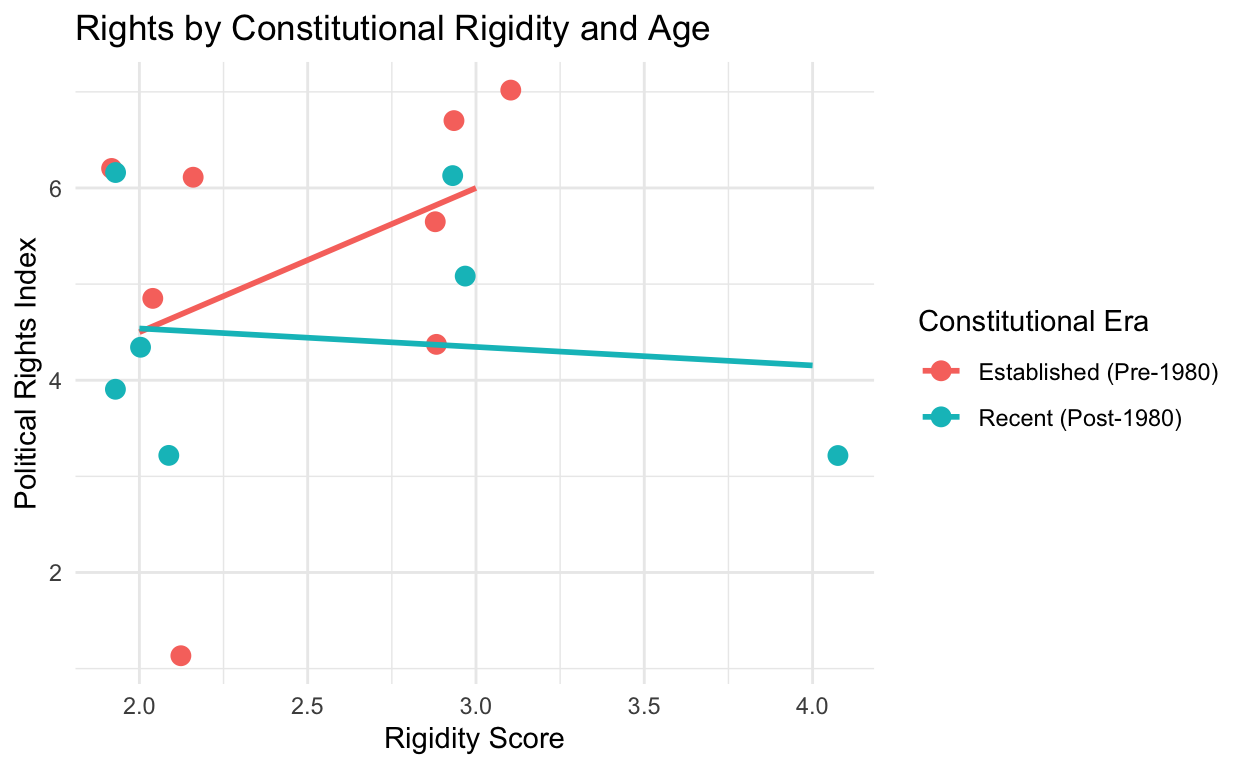
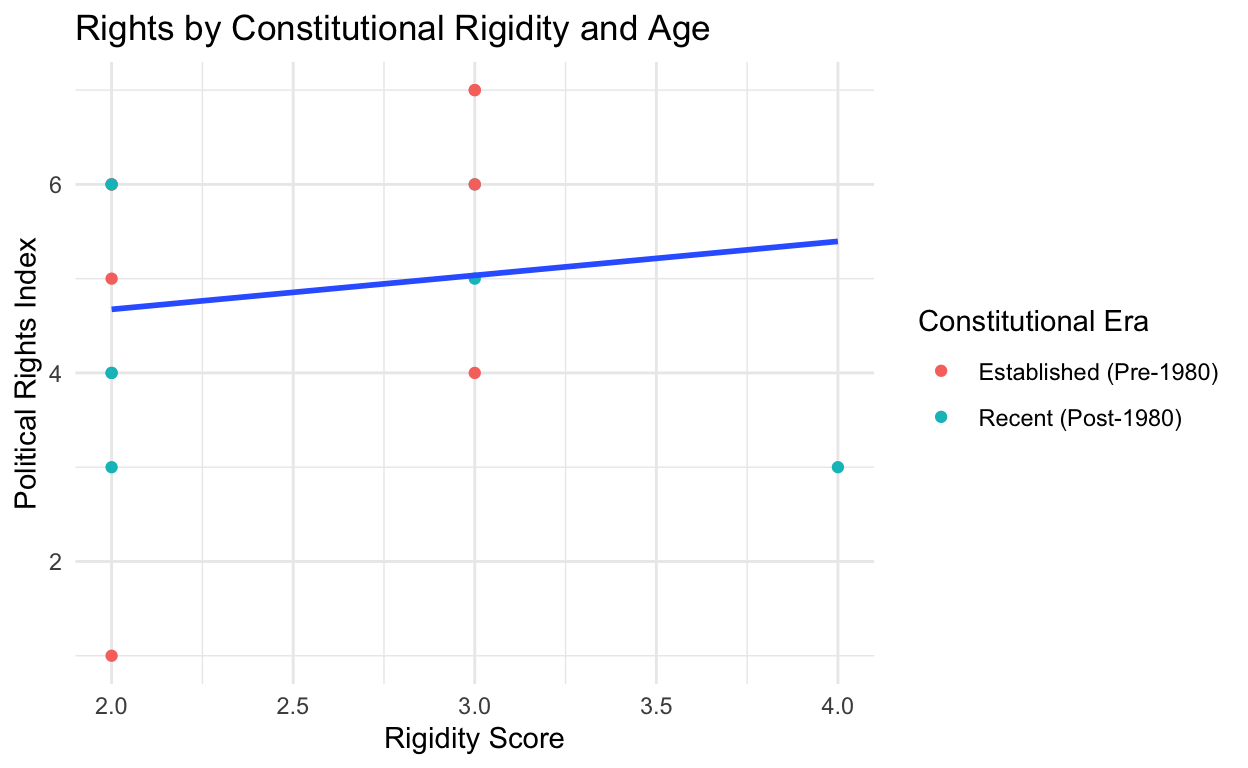
recommitting with new visualization

diff --git a/index.html b/index.html
@@ -1575,7 +1575,7 @@ code span.wa { color: #5e5e5e; font-style: italic; } /* Warning */
 <h2 id="proposal">Proposal</h2>
 <p>This research is from the Tuck School at Dartmouth, a paper entitled, “Judicial Checks and Balances,” published in 2004.</p>
 <p>Research question I want to know: To what extent does the formal design of a constitution determine the quality of political rights?</p>
-<p>Hypothesis: I hypothesize that there is a positive relationship between constitutional rigidity and political rights. Additionally, I hypothesize that modern constitutions would be more successful at protecting political rights with modern language and beliefs in protections for people.</p>
+<p>Hypothesis: I hypothesize that there is a positive relationship between constitutional rigidity and political rights in American countries. Additionally, I hypothesize that modern constitutions would be more successful at protecting political rights with modern language and beliefs in protections for people.</p>
 <p>The explanatory variables are the rigidity of the constitution and the constitution year. For rigidity, this is how it was measured: Measures (on a scale from 1 to 4) how hard it is to change the constitution in a given country. One point each is given if the approval of the majority of the legislature, the chief of state, and a referendum is necessary in order to change the constitution. An additional point is given for each of the following: if a supermajority in the legislature (more than 66 percent of votes) is needed, if both houses of the legislature have to approve, if the legislature has to approve the amendment in two consecutive legislative terms, or if the approval of a majority of the state legislature is required. Source: Maddex (1995).” The other explanatory variable is the year that the constitution was ratified.</p>
 <p>The outcome variable of interest is the political rights index, and this is how it was measured: “Index of political rights in 1996 (on a scale from 1 to 7). Higher ratings indicate countries that come closer to the ideals suggested by the following checklist: (1) there are free and fair elections, (2) those elected rule, (3) there are competitive parties or other competitive political groupings, (4) the opposition has an important role and power, and (5) the entities have self-determination or an extremely high degree of autonomy. Source: Freedom House (1996).”</p>
 <p>Each of the descriptions of the methodology that the researchers used are taken from this website: <a href="https://faculty.tuck.dartmouth.edu/images/uploads/faculty/rafael-laporta/jcb_variable_description.pdf" class="uri">https://faculty.tuck.dartmouth.edu/images/uploads/faculty/rafael-laporta/jcb_variable_description.pdf</a></p>
@@ -1634,7 +1634,7 @@ code span.wa { color: #5e5e5e; font-style: italic; } /* Warning */
 <p>The data suggests that Constitutional Rigidity is not a “magic bullet” for democracy. In “stable regions” (South America), rigidity appears to act as a shield that protects political rights. In unstable or authoritarian regions (Central America/Caribbean), high rigidity may simply be a rule on paper that fails to protect citizens in practice, or even a tool used by those in power to prevent change.</p>
 <p>Key Observation: The most “rigid” country in the set (Haiti) is far less democratic than countries with “easier to change” constitutions like Panama or Argentina. This suggests that the content of the laws and the culture of the country matter more than just how hard the document is to edit.</p>
 <h2 id="assessing-a-relationship-between-the-year-the-constitution-was-written-its-rigidity-and-political-rights">Assessing a relationship between the year the Constitution was written, its rigidity, and political rights</h2>
-<p>Guiding Question: Does the effectiveness of constitutional rigidity in protecting political rights depend on the age of the constitution?</p>
+<p>Guiding Question: Does the effectiveness of constitutional rigidity in protecting political rights depend on the age of the constitution throughout America?</p>
 <div class="layout-chunk" data-layout="l-body">
 <div class="sourceCode">
 <pre class="sourceCode r"><code class="sourceCode r"><span><span class='kw'><a href='https://rdrr.io/r/base/library.html'>library</a></span><span class='op'>(</span><span class='va'><a href='https://yihui.org/knitr/'>knitr</a></span><span class='op'>)</span></span></code></pre>
@@ -1643,7 +1643,17 @@ code span.wa { color: #5e5e5e; font-style: italic; } /* Warning */
 <div class="layout-chunk" data-layout="l-body">
 <div class="sourceCode">
 <pre class="sourceCode r"><code class="sourceCode r"><span><span class='va'>model</span> <span class='op'>&lt;-</span> <span class='fu'><a href='https://rdrr.io/r/stats/lm.html'>lm</a></span><span class='op'>(</span><span class='va'>pright</span> <span class='op'>~</span> <span class='va'>rigid</span> <span class='op'>+</span> <span class='va'>cons_yr</span>, data <span class='op'>=</span> <span class='va'>judicial_data_america</span><span class='op'>)</span></span>
-<span><span class='fu'><a href='https://rdrr.io/r/base/summary.html'>summary</a></span><span class='op'>(</span><span class='va'>model</span><span class='op'>)</span></span></code></pre>
+<span><span class='va'>model</span></span></code></pre>
+</div>
+<pre><code>
+Call:
+lm(formula = pright ~ rigid + cons_yr, data = judicial_data_america)
+
+Coefficients:
+(Intercept)        rigid      cons_yr  
+    31.6198       0.1263      -0.0139  </code></pre>
+<div class="sourceCode">
+<pre class="sourceCode r"><code class="sourceCode r"><span><span class='fu'><a href='https://rdrr.io/r/base/summary.html'>summary</a></span><span class='op'>(</span><span class='va'>model</span><span class='op'>)</span></span></code></pre>
 </div>
 <pre><code>
 Call:
@@ -1673,9 +1683,9 @@ For every 1-point increase in the Rigidity of a constitution, the Political Righ
 <pre class="sourceCode r"><code class="sourceCode r"><span><span class='va'>judicial_data_america</span> <span class='op'>&lt;-</span> <span class='va'>judicial_data_america</span> <span class='op'><a href='https://magrittr.tidyverse.org/reference/pipe.html'>%&gt;%</a></span></span>
 <span>  <span class='fu'><a href='https://dplyr.tidyverse.org/reference/mutate.html'>mutate</a></span><span class='op'>(</span>Age <span class='op'>=</span> <span class='fu'><a href='https://rdrr.io/r/base/ifelse.html'>ifelse</a></span><span class='op'>(</span><span class='va'>cons_yr</span> <span class='op'>&lt;=</span> <span class='fl'>1980</span>, <span class='st'>"Established (Pre-1980)"</span>, <span class='st'>"Recent (Post-1980)"</span><span class='op'>)</span><span class='op'>)</span></span>
 <span></span>
-<span><span class='va'>regression_plot</span> <span class='op'>&lt;-</span> <span class='fu'><a href='https://ggplot2.tidyverse.org/reference/ggplot.html'>ggplot</a></span><span class='op'>(</span><span class='va'>judicial_data_america</span>, <span class='fu'><a href='https://ggplot2.tidyverse.org/reference/aes.html'>aes</a></span><span class='op'>(</span>x <span class='op'>=</span> <span class='va'>rigid</span>, y <span class='op'>=</span> <span class='va'>pright</span>, color <span class='op'>=</span> <span class='va'>Age</span><span class='op'>)</span><span class='op'>)</span> <span class='op'>+</span></span>
-<span>  <span class='fu'><a href='https://ggplot2.tidyverse.org/reference/geom_jitter.html'>geom_jitter</a></span><span class='op'>(</span>width <span class='op'>=</span> <span class='fl'>0.2</span>, size <span class='op'>=</span> <span class='fl'>3</span><span class='op'>)</span> <span class='op'>+</span> <span class='co'># Jitter stops dots from overlapping</span></span>
-<span>  <span class='fu'><a href='https://ggplot2.tidyverse.org/reference/geom_smooth.html'>geom_smooth</a></span><span class='op'>(</span>method <span class='op'>=</span> <span class='st'>"lm"</span>, se <span class='op'>=</span> <span class='cn'>FALSE</span><span class='op'>)</span> <span class='op'>+</span> <span class='co'># Adds two simple trend lines</span></span>
+<span><span class='va'>regression_plot</span> <span class='op'>&lt;-</span> <span class='fu'><a href='https://ggplot2.tidyverse.org/reference/ggplot.html'>ggplot</a></span><span class='op'>(</span><span class='va'>judicial_data_america</span>, <span class='fu'><a href='https://ggplot2.tidyverse.org/reference/aes.html'>aes</a></span><span class='op'>(</span>x <span class='op'>=</span> <span class='va'>rigid</span>, y <span class='op'>=</span> <span class='va'>pright</span><span class='op'>)</span><span class='op'>)</span> <span class='op'>+</span></span>
+<span>  <span class='fu'><a href='https://ggplot2.tidyverse.org/reference/geom_point.html'>geom_point</a></span><span class='op'>(</span><span class='fu'><a href='https://ggplot2.tidyverse.org/reference/aes.html'>aes</a></span><span class='op'>(</span>color <span class='op'>=</span> <span class='va'>Age</span><span class='op'>)</span><span class='op'>)</span> <span class='op'>+</span> </span>
+<span>  <span class='fu'><a href='https://ggplot2.tidyverse.org/reference/geom_smooth.html'>geom_smooth</a></span><span class='op'>(</span>method <span class='op'>=</span> <span class='st'>"lm"</span>, se <span class='op'>=</span> <span class='cn'>FALSE</span><span class='op'>)</span> <span class='op'>+</span> </span>
 <span>  <span class='fu'><a href='https://ggplot2.tidyverse.org/reference/labs.html'>labs</a></span><span class='op'>(</span></span>
 <span>    title <span class='op'>=</span> <span class='st'>"Rights by Constitutional Rigidity and Age"</span>,</span>
 <span>    x <span class='op'>=</span> <span class='st'>"Rigidity Score"</span>,</span>
@@ -1687,13 +1697,11 @@ For every 1-point increase in the Rigidity of a constitution, the Political Righ
 </div>
 <p><img src="index_files/figure-html5/visualization%202-1.png" alt="" width="624" /></p>
 </div>
-<p>I have updated the project to include a formal multiple linear regression analysis. Modeling Political Rights as a function of both Rigidity and Constitution Year reveals two key findings:
-1. Positive Impact of Rigidity: The coefficient for rigidity, 0.1263, suggests that ‘locking in’ a constitution provides a boost to political rights, acting as a structural shield.
-2. Negative Impact of Recency: The coefficient for the year of enactment, -0.0139, indicates that newer constitutions are associated with lower political rights scores, suggesting that recent constitutional rewrites often occur in unstable environments or fail to overcome ‘Parchment Barriers’ as effectively as older, more established legal frameworks.
-By including both predictors in one model, the analysis shows that while institutional design (rigidity) matters, the historical endurance of the document (year) is a more powerful predictor of democratic outcomes in 1996.</p>
-<p>The regression shows that while constitutional rigidity has a positive effect on rights, the year of enactment is a predictor, with older constitutions generally supporting higher rights scores.
-The scatterplot reflects this model by showing that ‘Established’ constitutions (blue) tend to sit higher on the Y-axis than ‘Recent’ ones (red), regardless of their rigidity score. This provides a story between the statistical model and the visual data.</p>
-<div class="sourceCode" id="cb3"><pre class="sourceCode r distill-force-highlighting-css"><code class="sourceCode r"></code></pre></div>
+<p>The Model: <code>pright ~ rigid + cons_yr</code></p>
+<p>Rigidity Coefficient (0.1263): This is represented by the blue regression line. It shows a positive relationship between constitutional rigidity and political rights. The coefficient for rigidity, 0.1263, suggests that ‘locking in’ a constitution provides a boost to political rights, acting as a structural shield.</p>
+<p>Year Coefficient (-0.0139): This is represented by the color-coded clusters. Because the coefficient is negative, the ‘Established’ (older) countries sit higher on the Y-axis than the ‘Recent’ (newer) countries, even when they share the same rigidity score. The coefficient for the year of enactment, -0.0139, indicates that newer constitutions are associated with lower political rights scores, suggesting that recent constitutional rewrites often occur in unstable environments compared to older, more established legal frameworks.</p>
+<p>The visualization shows that while constitutional design (rigidity) provides a slight upward trend in rights, the ‘longevity’ of the constitution is a major factor. Contrary to my initial hypothesis, the data suggests that older constitutions outperform modern ones in protecting political rights. While constitutional rigidity provides a structural foundation for rights, it is not a substitute for institutional age. In the Americas, the most robust protections for political rights are found where a rigid design is paired with the stability of an established, long-standing constitution.</p>
+<div class="sourceCode" id="cb4"><pre class="sourceCode r distill-force-highlighting-css"><code class="sourceCode r"></code></pre></div>
 <!--radix_placeholder_article_footer-->
 <!--/radix_placeholder_article_footer-->
 </div>
